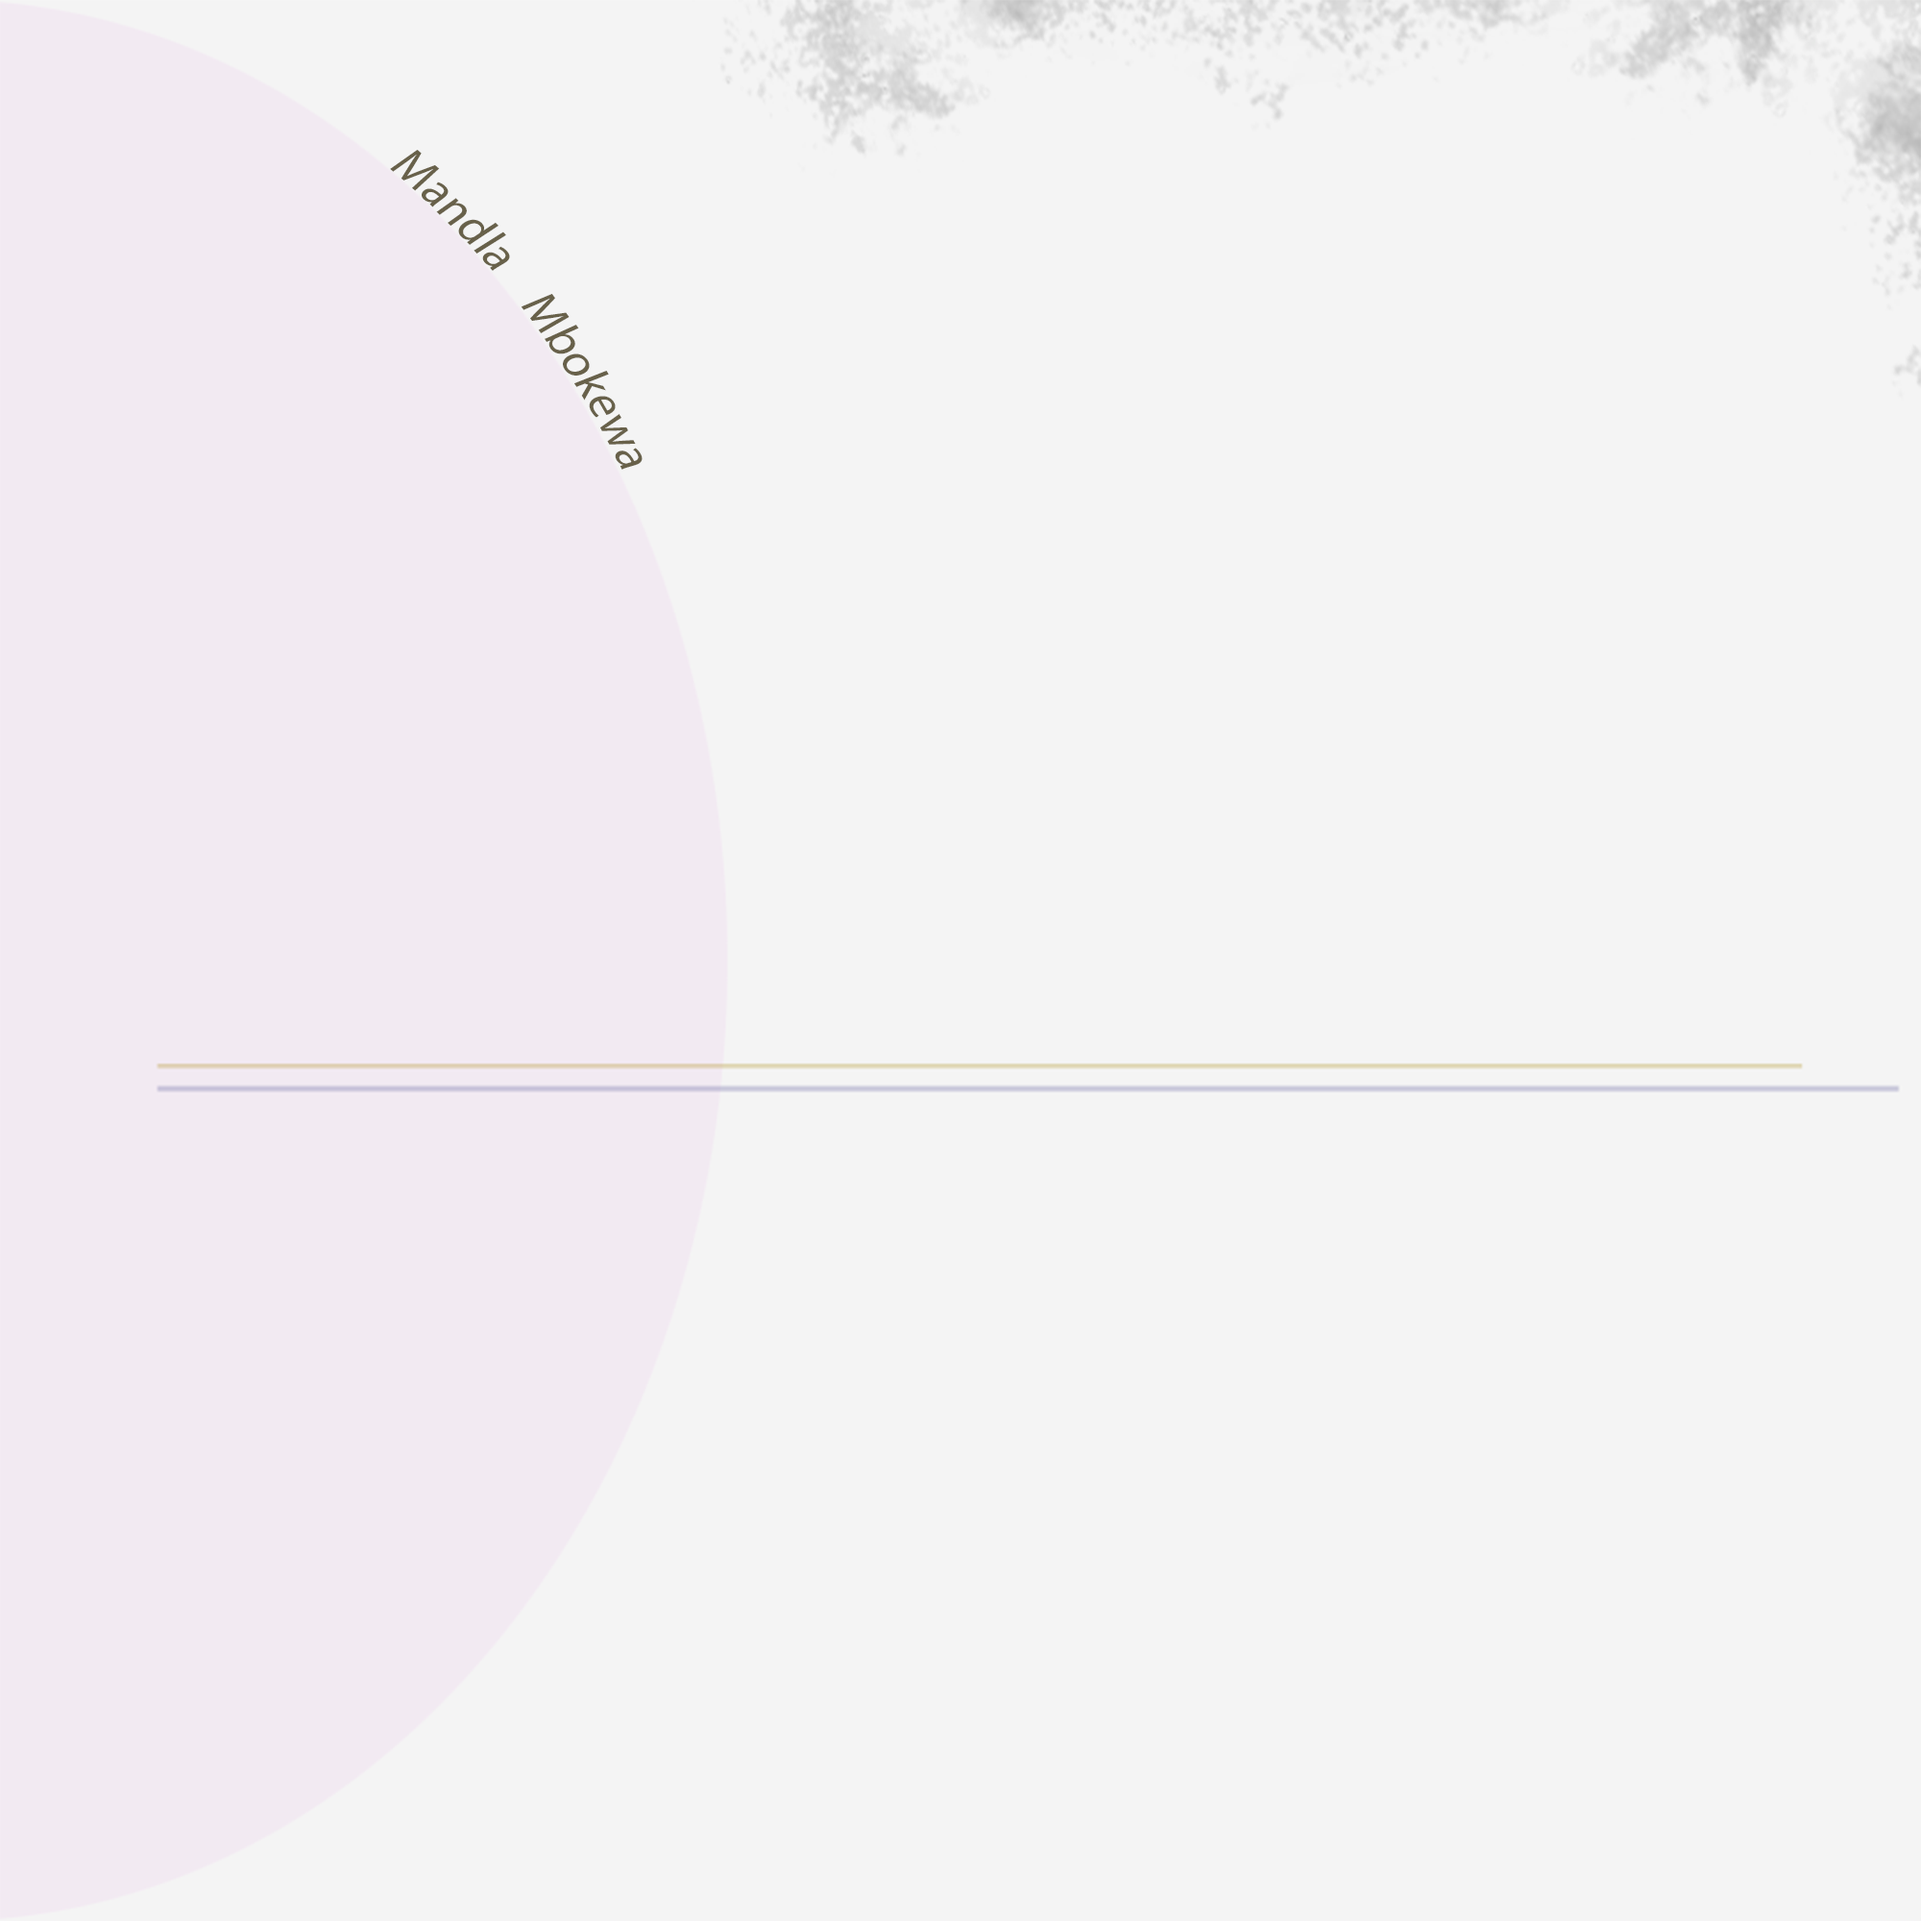
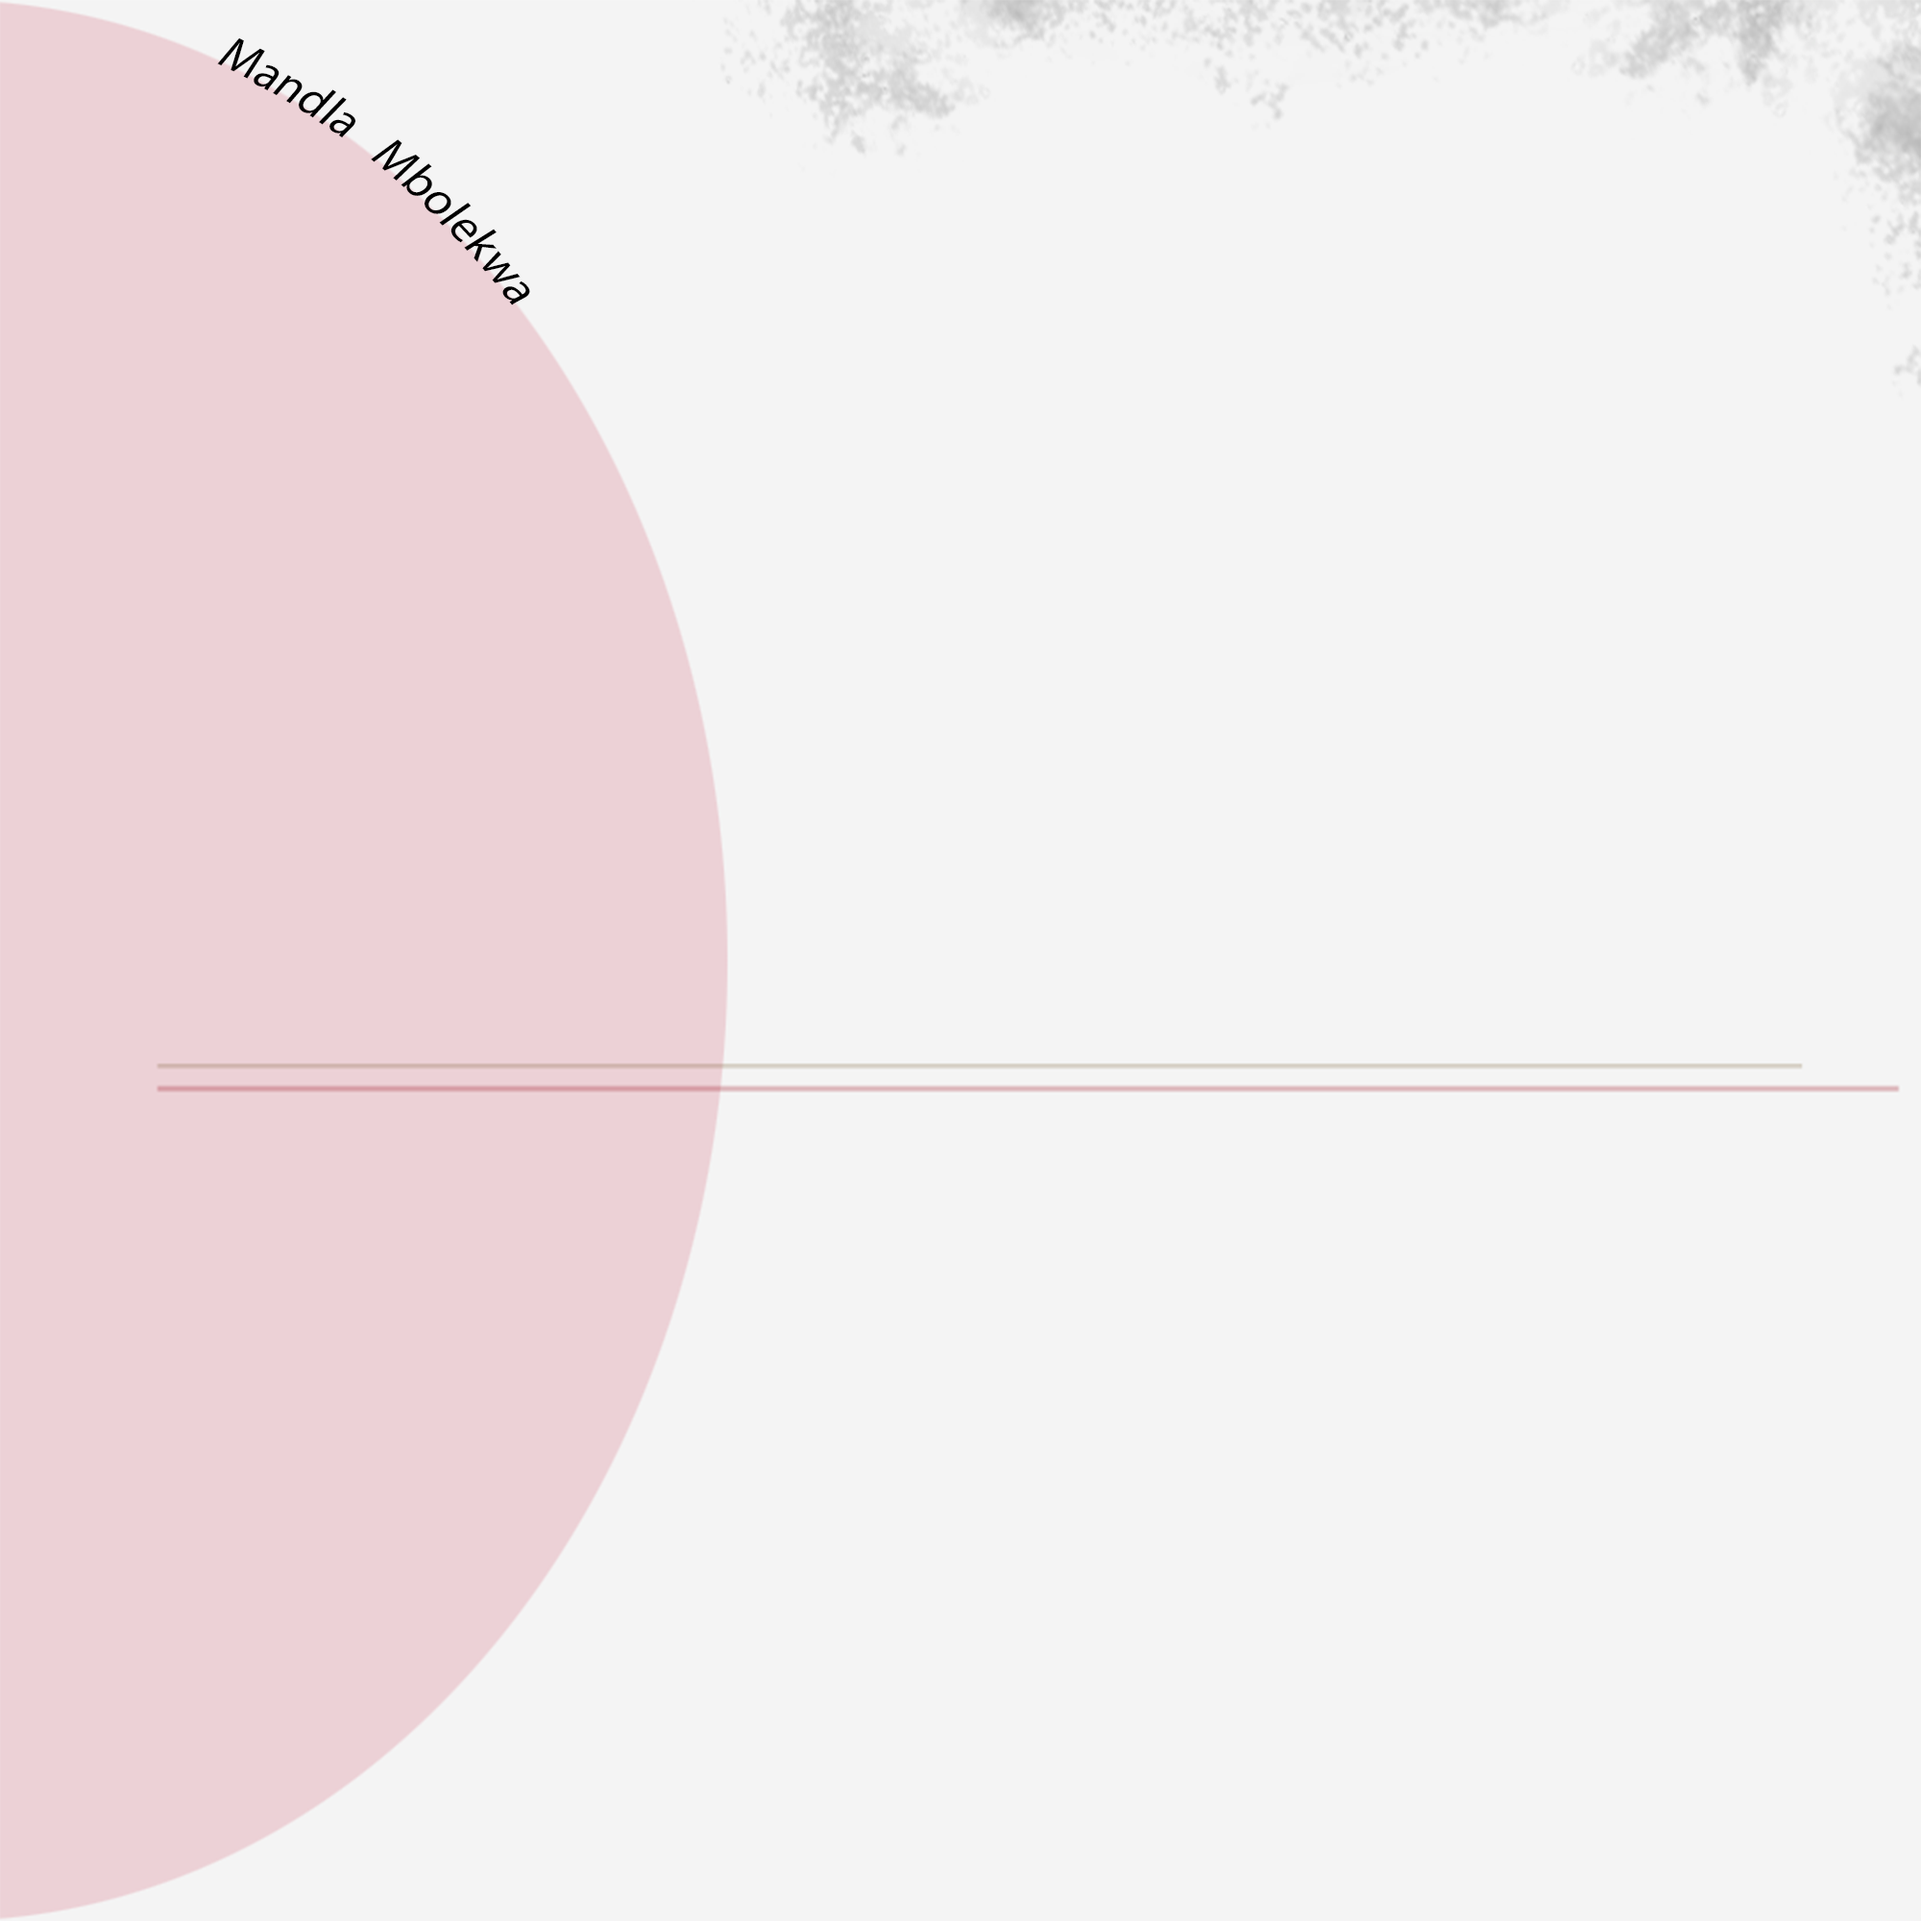
bug fixing

Changed region(s): [[0.0, 0.0, 0.403, 1.0]]

diff --git a/src/componets/Home/Home.js b/src/componets/Home/Home.js
@@ -55,10 +55,10 @@ export default function Home() {
           className="hidden md:grid text-[12px] lg:text-[14px] text-gray-600 order-last md:order-first"
         >
           <div className="relative flex items-end pl-10">
-            <div className="flex border-4 rounded-full border-[#d3ad80] items-start justify-center">
+            <div className="flex border-4 rounded-full border-[#795C34] items-start justify-center">
               <img src={mandla} alt="" className="w-20 h-20 rounded-full"/>
             </div>
-            <div className="absolute bg-[#d3ad80] h-0.5 w-full bottom-10 left-[9em]">
+            <div className="absolute bg-[#795C34] h-0.5 w-full bottom-10 left-[9em]">
     
             </div>
           </div>
